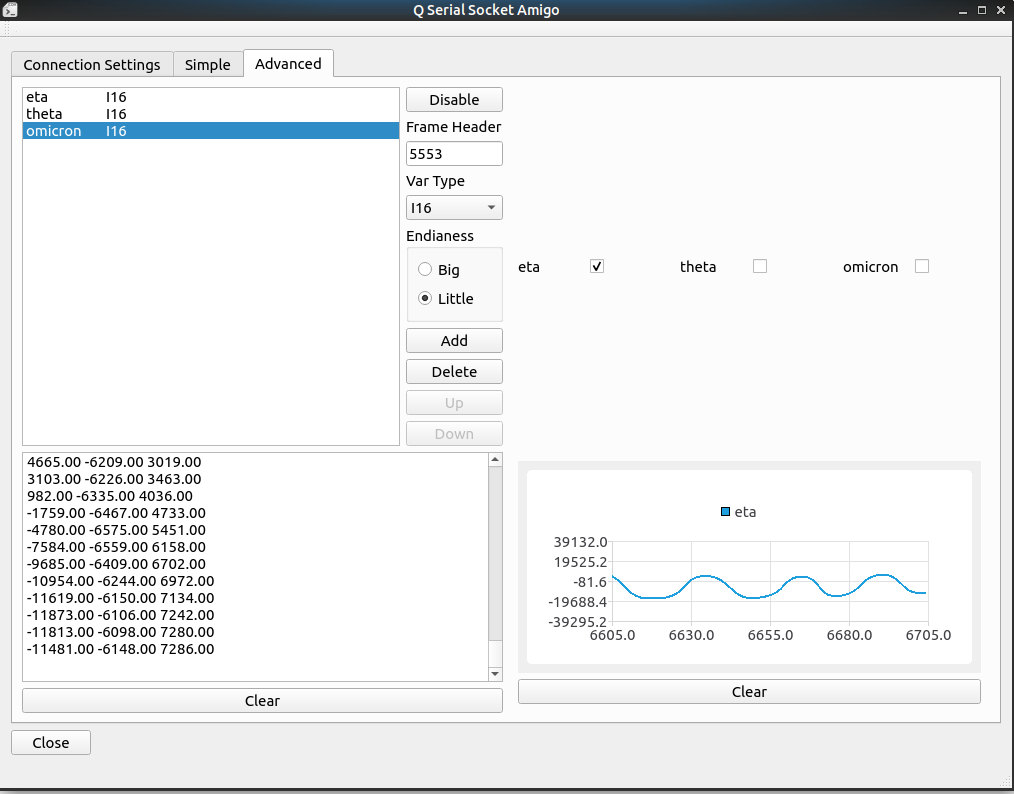
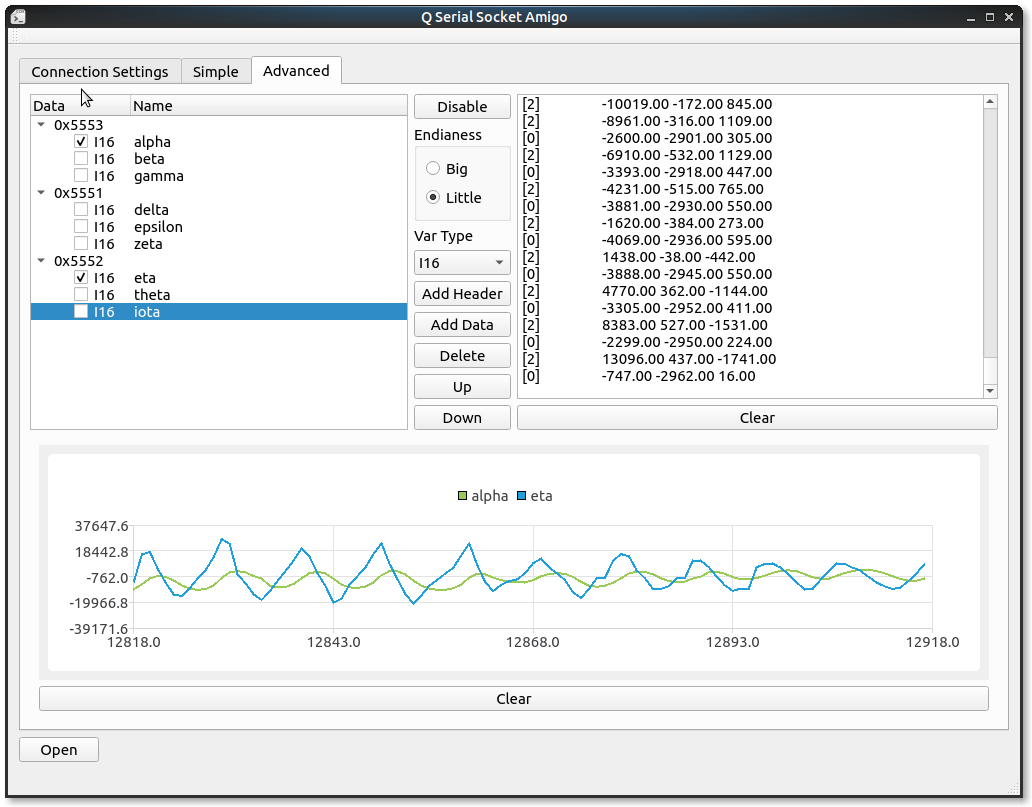
Update doc for v2.0

diff --git a/README.md b/README.md
@@ -14,7 +14,7 @@ Like 0xAAAA for the frame header, 0x01 for function byte to indicate what this f
 
 ## Download
 
-Download it at [release page](https://github.com/cybertale/QSerial-Socket-Amigo/releases/tag/v1.0).
+Download it at [release page](https://github.com/cybertale/QSerial-Socket-Amigo/releases).
 
 ## Compile
 
@@ -38,11 +38,21 @@ Repeat send will automatically start when the checkbox is checked.
 
 Advanced read means basic decoding of the income data with custom protocal and shows it on some specific chart.
 
-(TODO: here I think maybe we should support multiple frame headers.)
+**Firstly**, Using "Add Header" and "Add Data" button to add frame protocol settings, notice that we have to add header first data(means type data) are child nodes of the frame headers.
 
-**Firstly**, Set the frame header, 0xAAAA is the default frame header.
+When we click the "Add header" button, the tool will ask for a hex byte array to be frame header:
 
-**Secondly**, Add some variables to be decoded after the frame header. Select variable type and click add to add.
+![](doc/images/Add%20Header.png)
+
+**Secondly**, Add some variables to be decoded after the frame header. Select variable type and the frame to add then click add to add.
+
+Adding data needs us to select one header or data, the new type data will append to the frame we are selecting to.
+
+The following two ways of selection will all add the new type data to the first frame, the one with header "0xAAAA".
+
+![](doc/images/Add%20Data%20Select%20Header.png)
+
+![](doc/images/Add%20Data%20Select%20Data.png)
 
 **Thirdly**, Select the endianess the protocal uses.
 
@@ -56,17 +66,31 @@ Also this tab can be enabled both before and after the connection is opened.
 
 **Example** To decode data of an IMU module
 
-Here I got an IMU module keeps sending me its angles from serial. It sends me 3 `int16_t` data representing results for `angle / 180.0 * 65535` for roll, pitch, yaw. Frame of its data is composed of these following bytes:
+Here I got an IMU module keeps sending me its angles, angular velocity and angular acceleration from serial. It sends me 3 kinds of frames, each of them are started with two bytes header, 0x5553, 0x5552, 0x5551, respectively. Three `int16_t` datas follows the header in each frame, represents their value.
+
+For example, in angle frame, each of the `int16_t ` value represents results for `angle / 180.0 * 65535` for roll, pitch, yaw. 
+
+Frame of their data is composed of these following bytes:
+
+**Accelerometer**
+
+[0x55][0x51][Lower byte of roll][Higher byte of roll][Lower byte of pitch][Higher byte of pitch][Lower byte of yaw][Higher byte of yaw]
+
+**Angular velocity**
+
+[0x55][0x52][Lower byte of roll][Higher byte of roll][Lower byte of pitch][Higher byte of pitch][Lower byte of yaw][Higher byte of yaw]
+
+**Angle**
 
 [0x55][0x53][Lower byte of roll][Higher byte of roll][Lower byte of pitch][Higher byte of pitch][Lower byte of yaw][Higher byte of yaw]
 
-Which means it sends 3 `int16_t` data after frame header with little endianess. So the tool should be configured as fowllows:
-
-![](doc/images/Advanced%20Configuration.png)
-
-It will automatically allocates some name for the variables and generate checkboxes on the right, click the checkbox will draw it on the chart on the bottom right of the window.
+To decode these frames on one serial, we can configure our tool like this:
 
 ![](doc/images/Data%20in%20chart.png)
+
+Log area on the right will show the value it decodes, number in the beginning represents the frame index.
+
+Checkbox in front of the data line is for drawing data in chart, just check the data you want to plot and have some fun!
 
 ## About
 
